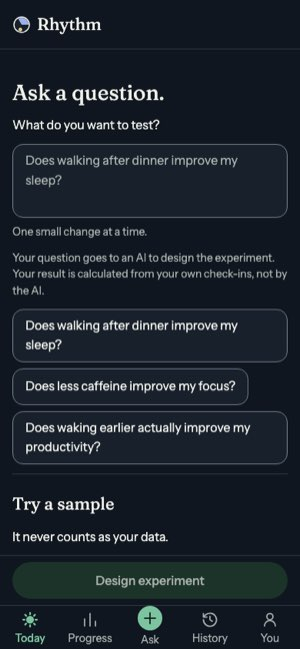
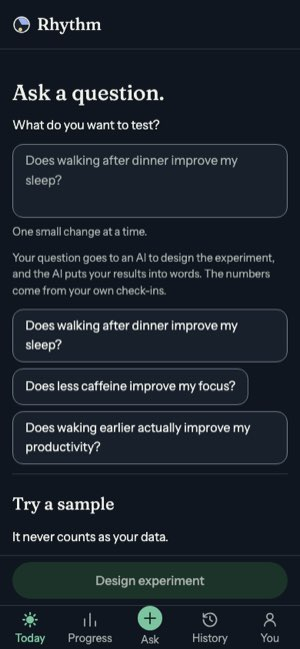
feat(mobile): say the AI words the results and the numbers are yours

Changed region(s): [[0.03, 0.4006, 0.96, 0.4622]]

diff --git a/apps/mobile/src/lib/proposals.ts b/apps/mobile/src/lib/proposals.ts
@@ -24,7 +24,7 @@ export function parseGuess(answer: string): number | null {
 export const signedPercent = (value: number) => `${value > 0 ? '+' : ''}${value}%`;
 
 /** Said on Ask and in You. */
-export const TRUST_LINE = 'Your question goes to an AI to design the experiment. Your result is calculated from your own check-ins, not by the AI.';
+export const TRUST_LINE = 'Your question goes to an AI to design the experiment, and the AI puts your results into words. The numbers come from your own check-ins.';
 
 const GOAL_QUESTIONS: Record<string, string> = {
   'More energy in the morning': 'What could give me more energy in the morning?',
